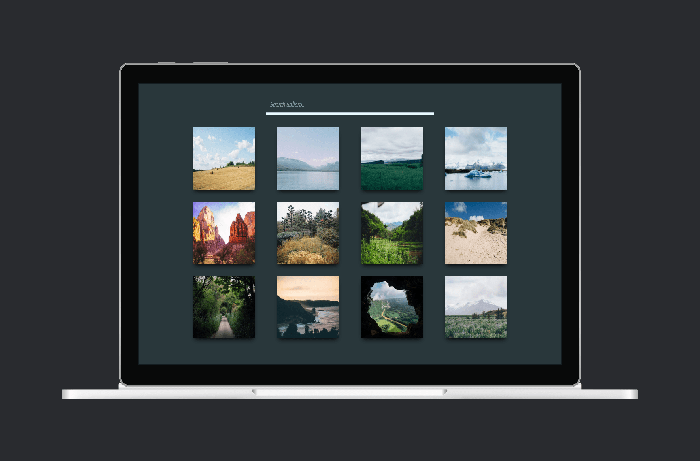
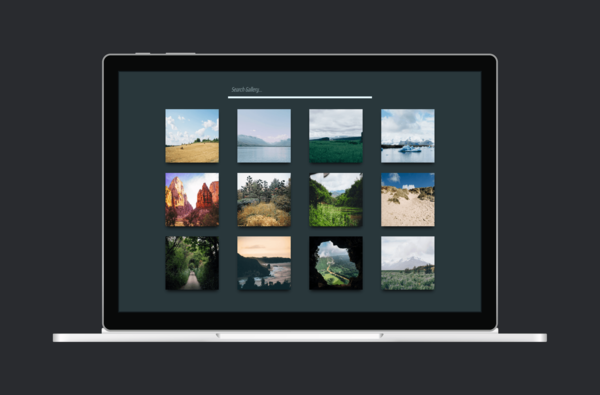
optimize images and added lang tag

diff --git a/js/main.js b/js/main.js
@@ -31,7 +31,7 @@ function buildProjects(projects) {
   projects.forEach(project => {
     projectsSection.innerHTML += `
     <figure class="col">
-    <img src="images/projects/${project.name}.png" alt="Image of ${
+    <img src="images/projects/small/${project.name}.png" alt="Image of ${
       project.altName
     } Project" class="project-image card">
     <div class="project-overlay">

diff --git a/projects.html b/projects.html
@@ -1,5 +1,5 @@
 <!DOCTYPE html>
-<html>
+<html lang="en">
 
 <head>
   <title>Jimmy Guzman: Projects</title>

diff --git a/contact.html b/contact.html
@@ -1,5 +1,5 @@
 <!DOCTYPE html>
-<html>
+<html lang="en">
 
 <head>
   <title>Jimmy Guzman: Contact</title>

diff --git a/index.html b/index.html
@@ -1,5 +1,5 @@
 <!DOCTYPE html>
-<html>
+<html lang="en">
 
 <head>
   <title>Jimmy Guzman</title>
